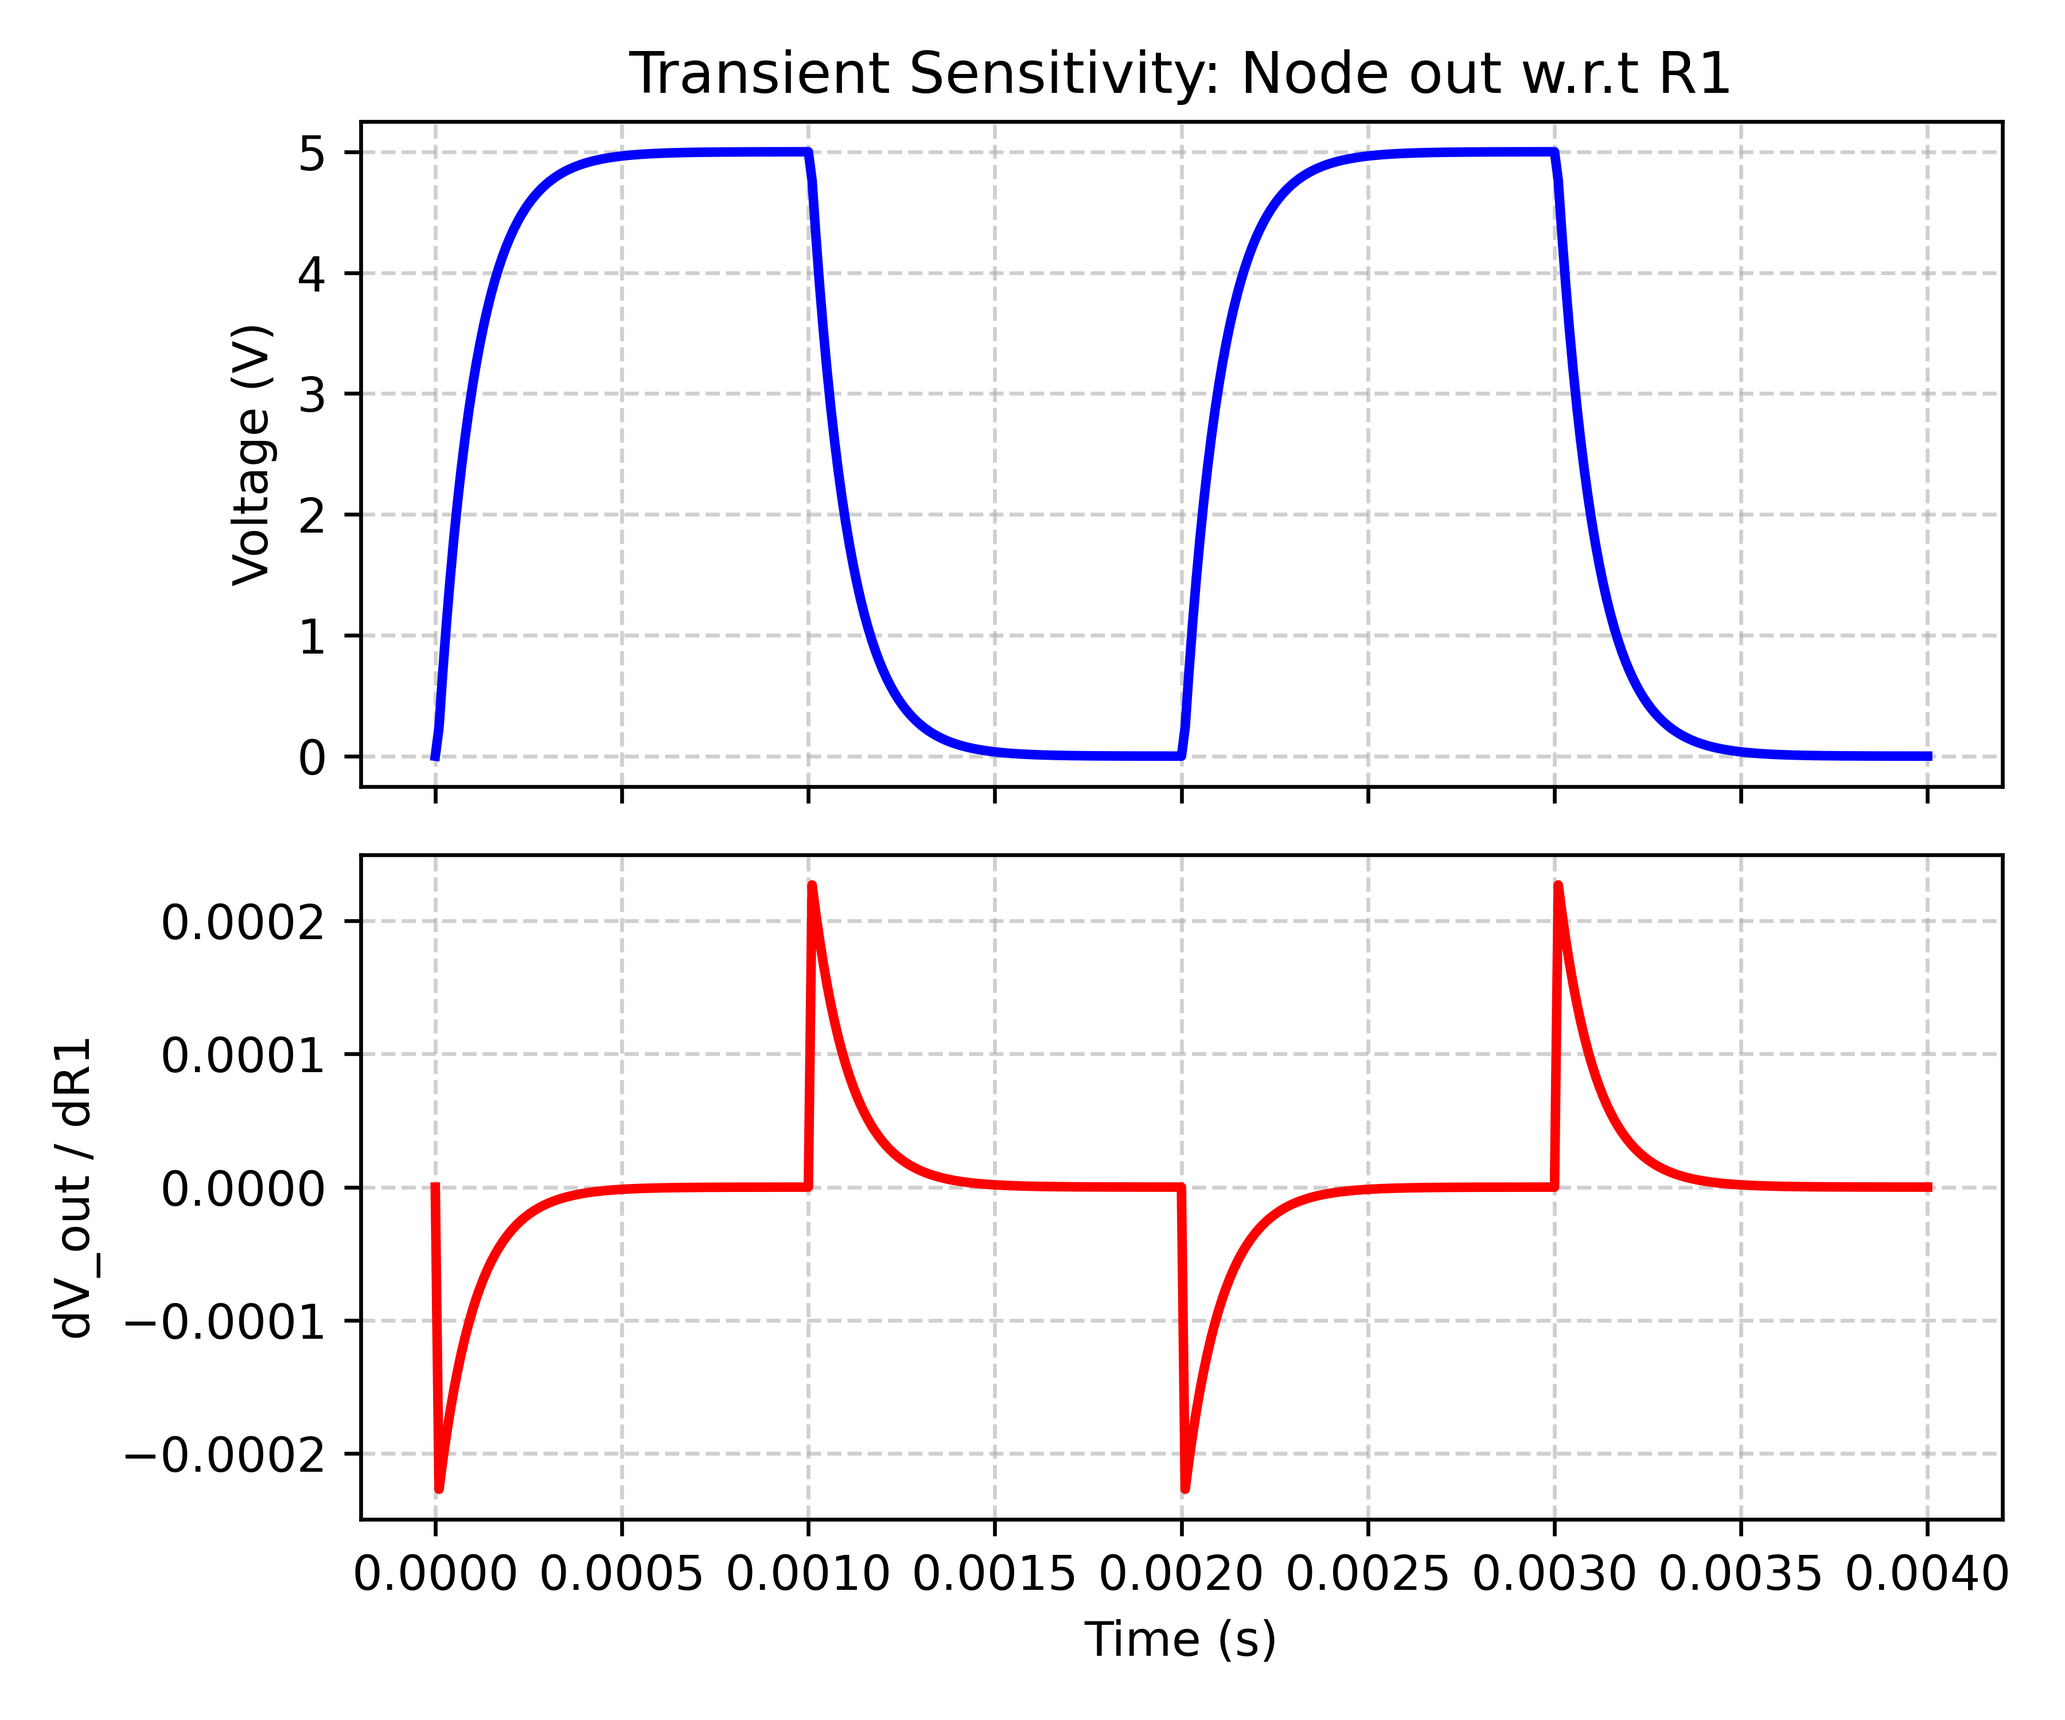
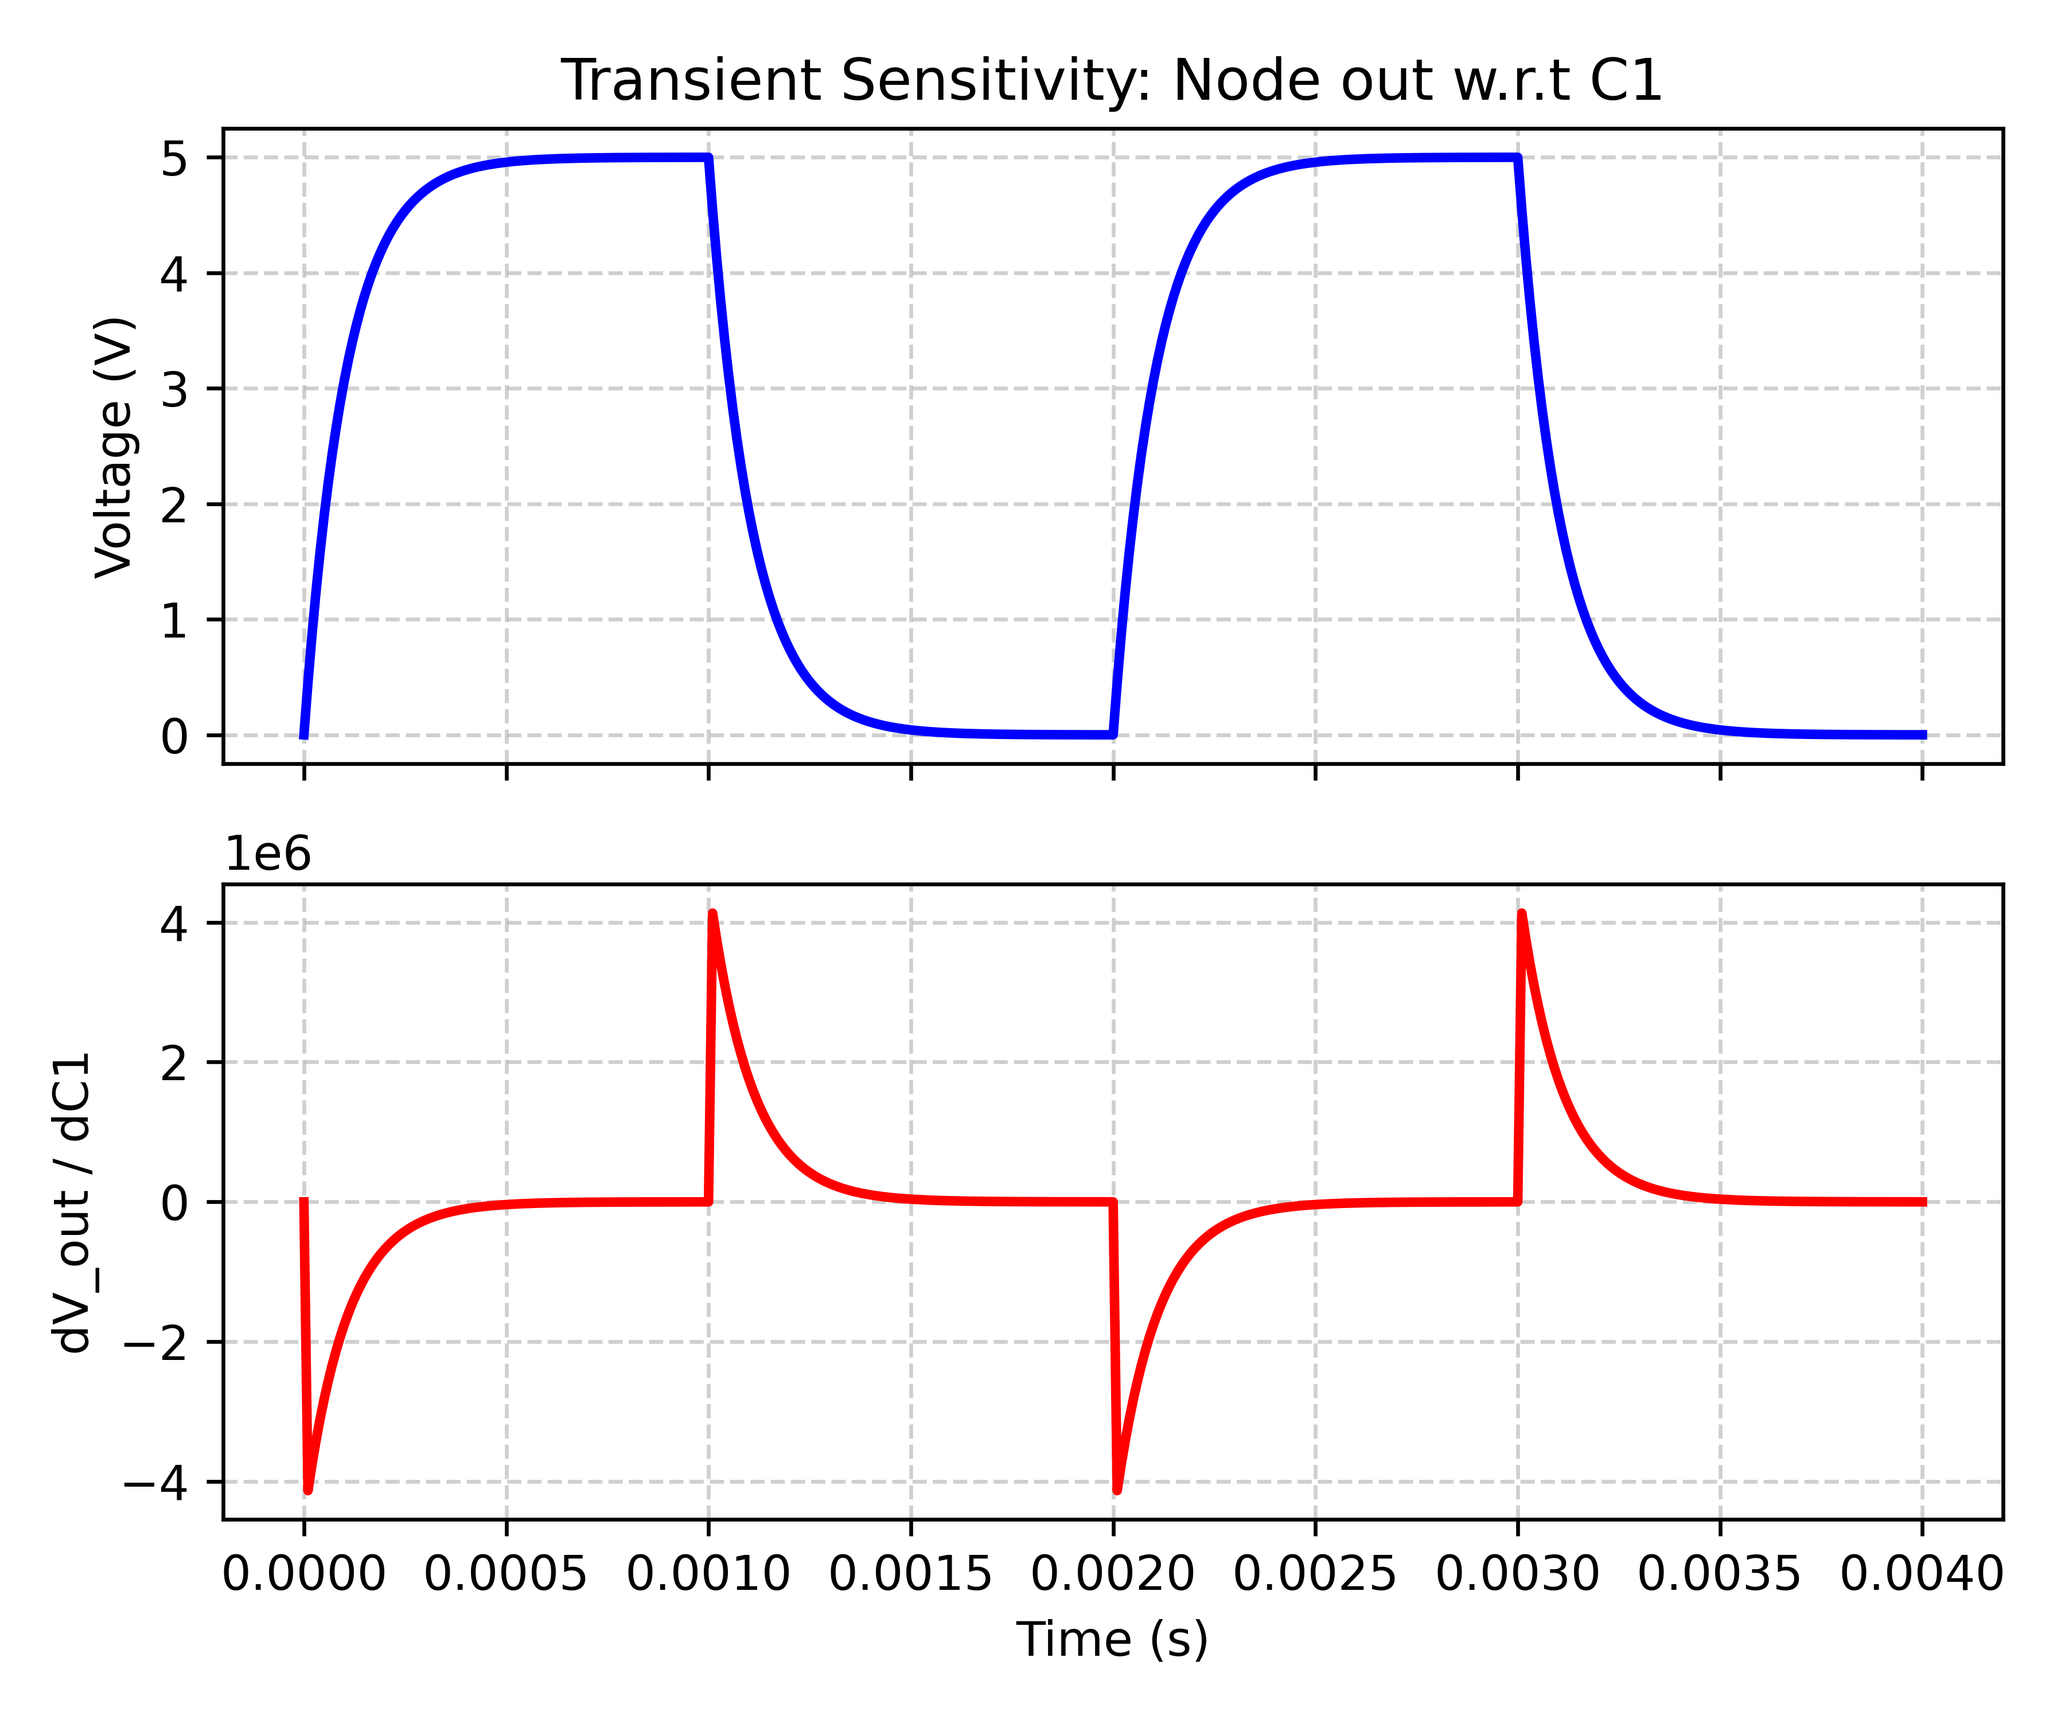
added fault analysis with ranking, stored raw adjoint vectors. Threshold limits for faults will be added later

Changed region(s): [[0.0311, 0.031, 0.9644, 0.465], [0.0311, 0.496, 0.9956, 0.961], [0.9022, 0.744, 0.9333, 0.806]]

diff --git a/src_oop/applications/fault_analysis.py b/src_oop/applications/fault_analysis.py
@@ -1,29 +1,47 @@
+"""
+Provides functions for ranking component sensitivities 
+and generating fault tables (opens and shorts) using adjoint sensitivity 
+data from the simulator.
+
+Short faults: R_short = dVout/ (v_nom * psi_nom)
+    where v_nom is the voltage difference between shorting nodes in the 
+    original circuit, and psi_nom is the voltage difference in the adjoint circuit.
+
+Open faults: R_open = dVout / (i_nom * phi_nom)
+    where i_nom is the branch current in the original circuit, and phi_nom 
+    is the branch current in the adjoint circuit.
+"""
+
 import numpy as np
 
 def rank_component_sensitivities(result):
     """
     Rank order component sensitivities from largest to smallest.
-    Uses the data already stored in the SensitivityCube.
+    Uses the data stored in the SensitivityData tensor.
+    
+    Args:
+        result (SimulationResult): The simulation result object with 
+            sensitivities already computed.
+    
+    Returns:
+        list[dict]: Sorted list of sensitivity rankings, or None if 
+            no sensitivity data is available.
     """
-    cube = result.sensitivities.get("Sensitivity_Cube")
-    if not cube:
-        print("No Sensitivity Cube found. Run simulation with sensitivity=True.")
-        return
+    tensor = result.sensitivities
+    if tensor is None:
+        print("No sensitivity data found. Run simulation with sensitivity=True.")
+        return None
 
     rank_list = []
 
-    #Iterate through every parameter stored in the cube
-    for p_name in cube.param_names:
-        #Get the time-series waveform for this parameter
-        for o_node in cube.output_nodes:
-            s_waveform = cube.get_time_series(p_name, o_node)
+    for p_name in tensor.param_names:
+        for o_node in tensor.output_nodes:
+            s_waveform = tensor.get_sweep_series(p_name, o_node)
             
-            #Use the maximum absolute value as the 'Ranking Metric'
-            #This identifies the "Peak Impact" this component has on the output
-            # Find the peak and the time it happened
+            # Use the maximum absolute value as the ranking metric
             peak_idx = np.argmax(np.abs(s_waveform))
-            impact = s_waveform[peak_idx] # Keep the sign (+/-)
-            peak_time = cube.time_array[peak_idx]
+            impact = s_waveform[peak_idx]
+            peak_time = tensor.sweep_axis[peak_idx]
             
             rank_list.append({
                 "name": p_name,
@@ -32,9 +50,9 @@ def rank_component_sensitivities(result):
                 "time": peak_time
             })
 
-    #Sort the list: Largest to Smallest
     ranked = sorted(rank_list, key=lambda x: abs(x['impact']), reverse=True)
 
+    # Print the table
     print(f"\n{'Rank':<5} | {'Parameter':<12} | {'Impact':<12} | {'At Time':<10} | {'Target'}")
     print("-" * 65)
     for i, item in enumerate(ranked[:10]):
@@ -44,59 +62,113 @@ def rank_component_sensitivities(result):
 
 
 def perform_global_ranking(circuit, result):
-    cube = result.sensitivities["Sensitivity_Cube"]
-    vi_nom = result.VI
-    psi_nom = cube.adjoint_vectors 
+    """
+    Generate a fault table ranking both open and short faults for 
+    each output node using adjoint sensitivity data.
     
-    # Filter: identify branch current entries by checking component types
+    For opens: uses the existing component sensitivity waveforms.
+    For shorts: computes v_diff * psi_diff for all node pairs using 
+        the raw adjoint vectors stored in the SensitivityData tensor.
+    
+    Args:
+        circuit (Circuit): The circuit object with components and node_map.
+        result (SimulationResult): The simulation result with sensitivities.
+    
+    Returns:
+        dict: { 'node_name': [ranked_faults_list] } for each output node.
+    """
+    tensor = result.sensitivities
+    if tensor is None:
+        print("No sensitivity data found. Run simulation with sensitivity=True.")
+        return None
+
+    vi_nom = result.VI
+    psi_nom = tensor.adjoint_vectors  # Shape: (n_outputs, n_steps, total_dim)
+    
+    # Check that adjoint vectors were stored
+    if psi_nom is None:
+        print("No raw adjoint vectors found. Cannot compute short faults.")
+        use_adjoint = False
+    else:
+        use_adjoint = True
+    
+    # Filter out branch current entries to keep only physical voltage nodes
     branch_names = set()
     for comp in circuit.components:
         if comp.type in ["V", "L", "H", "E"]:
             branch_names.add(comp.name)
     
-    # Keep only physical voltage nodes
-    voltage_nodes = [(name, idx) for name, idx in result.node_map.items()
+    voltage_nodes = [(name, idx) for name, idx in circuit.node_map.items()
                      if name not in branch_names]
-    
-    # We will return a dictionary: { 'node_name': [ranked_faults_list] }
+
     all_rankings = {}
 
-    # Iterate through every output node you specified in main.py
-    for out_idx, out_node_name in enumerate(cube.output_nodes):
+    for out_node in tensor.output_nodes:
+        o_idx = tensor.output_index[out_node]
         node_faults = []
 
-        # --- 1. Rank Existing Components (Opens) for THIS node ---
-        for p_name in cube.param_names:
-            s_waveform = cube.get_time_series(p_name, out_node_name)
+        # --- 1. Rank Existing Components/Branches (Open Faults) ---
+        # An open fault means a component's resistance goes very high.
+        # The sensitivity waveform tells us how much the output changes
+        # per unit change in that component's parameter.
+        for p_name in tensor.param_names:
+            s_waveform = tensor.get_sweep_series(p_name, out_node)
             peak_idx = np.argmax(np.abs(s_waveform))
             node_faults.append({
                 "type": "Open", 
                 "location": p_name, 
                 "impact": s_waveform[peak_idx], 
-                "time": cube.time_array[peak_idx]
+                "time": tensor.sweep_axis[peak_idx]
             })
 
-        # --- 2. Rank Node-Pair Shorts for THIS node ---
+        # --- 2. Rank Node-Pair Shorts ---
+        # v_diff = voltage difference between the two nodes in the original circuit
+        # psi_diff = voltage difference between the two nodes in the adjoint circuit
         for i in range(len(voltage_nodes)):
             for j in range(i + 1, len(voltage_nodes)):
                 n1, idx1 = voltage_nodes[i]
                 n2, idx2 = voltage_nodes[j]
                 
+                # Forward voltage difference across the potential short
                 v_diff = vi_nom[:, idx1] - vi_nom[:, idx2]
-                psi_diff = psi_nom[out_idx, :, idx1] - psi_nom[out_idx, :, idx2] 
                 
-                short_sens_waveform = v_diff * psi_diff
+                if use_adjoint:
+                    # Adjoint voltage difference (psi) for this output node
+                    psi_diff = psi_nom[o_idx, :, idx1] - psi_nom[o_idx, :, idx2]
+                    
+                    short_sens_waveform = v_diff * psi_diff
                 
                 peak_idx = np.argmax(np.abs(short_sens_waveform))
                 node_faults.append({
                     "type": "Short", 
                     "location": f"{n1}<->{n2}", 
                     "impact": short_sens_waveform[peak_idx],
-                    "time": cube.time_array[peak_idx]
+                    "time": tensor.sweep_axis[peak_idx]
                 })
 
-        # --- 3. Final Sort for THIS node ---
+        # --- 3. Sort by absolute impact ---
         node_faults.sort(key=lambda x: abs(x["impact"]), reverse=True)
-        all_rankings[out_node_name] = node_faults
+        all_rankings[out_node] = node_faults
 
     return all_rankings
+
+
+def print_fault_table(all_fault_tables, top_n=15):
+    """
+    Pretty-print the fault ranking tables.
+    
+    Args:
+        all_fault_tables (dict): Output from perform_global_ranking().
+        top_n (int): Number of top faults to display per node.
+    """
+    if all_fault_tables is None:
+        return
+        
+    for node_name, ranked_list in all_fault_tables.items():
+        print("\n" + "=" * 70)
+        print(f"  FAULT TABLE FOR OUTPUT: V({node_name})")
+        print("=" * 70)
+        print(f"{'Rank':<5} | {'Type':<10} | {'Location':<15} | {'Peak Impact':<14} | {'At Time'}")
+        print("-" * 70)
+        for i, fault in enumerate(ranked_list[:top_n]):
+            print(f"{i+1:<5} | {fault['type']:<10} | {fault['location']:<15} | {fault['impact']:>12.3e} | {fault['time']:>8.2e}s")

diff --git a/src_oop/main.py b/src_oop/main.py
@@ -11,6 +11,7 @@ from core.circuit import Circuit
 from engines.simulator import Simulator
 from utils.plotting import plot_transient, plot_transient_sensitivity, plot_dc_sweep, plot_dc_sensitivity, plot_ac_sensitivity, print_solution, make_bode_plot
 import numpy as np
+from applications.fault_analysis import rank_component_sensitivities, perform_global_ranking, print_fault_table
 
 def run_simulation_core(netlist_path, output_nodes=None, sensitivity=False, global_adjoint=False, keep_lus=False):
     """Runs the complete SPICE simulation pipeline.
@@ -53,12 +54,12 @@ if __name__ == "__main__":
     netlist = "rc_transient" # nmos_inverter, rc_lowpass, etc.
     file_path = f"../testfiles/{netlist}.txt"
     target_node = "out" 
-    target_component = "R1" 
+    target_component = "C1" 
 
     # --- Execution ---
     circuit, result = run_simulation_core(
         file_path, 
-        output_nodes=[target_node], 
+        output_nodes=[target_node,"in"], 
         sensitivity=True,
         global_adjoint=False  # Ensure we calculate the global backward integrals for TRAN
     )
@@ -100,6 +101,11 @@ if __name__ == "__main__":
                     name=f"{netlist}_tran_sens"
                 )
         
+            #fault table
+            rank_component_sensitivities(result)
+            all_fault_tables = perform_global_ranking(circuit, result)
+            print_fault_table(all_fault_tables)
+
         # Quick tensor test: Print matrices at first and last time steps
         if result.sensitivities:
             result.sensitivities.print_matrix_at_step(0)
@@ -163,4 +169,4 @@ if __name__ == "__main__":
             print(f"\n=== DC SENSITIVITIES FOR V({target_node}) ===")
             for param in calculated_params:
                 sens_val = result.get_sensitivity(target_node, param)
-                print(f"  d({target_node})/d({param}) = {sens_val:+.6e}")
+                print(f"d({target_node})/d({param}) = {sens_val:+.6e}")

diff --git a/src_oop/engines/adjoint_engine.py b/src_oop/engines/adjoint_engine.py
@@ -136,6 +136,13 @@ class AdjointEngine:
         # 2. Allocate the 3D Tensor
         tensor = SensitivityData(sweep_axis, param_names, self.output_nodes, domain=domain)
 
+        # 3. Allocate storage for raw adjoint vectors (needed for fault analysis)
+        # Shape: (n_outputs, n_sweep_steps, total_dim)
+        dtype = complex if is_ac else float
+        tensor.adjoint_vectors = np.zeros(
+            (len(self.output_nodes), num_steps, self.circuit.total_dim), dtype=dtype
+        )
+
         for target_node in self.output_nodes:
             print(f"--- Building Sensitivity Tensor for {domain.upper()} Node '{target_node}' ---")
             o_idx = tensor.output_index[target_node]
@@ -148,7 +155,9 @@ class AdjointEngine:
 
                 # Transposed Solve
                 psi = self._solve_adjoint(list_of_lus[i], target_node, is_complex=is_ac)
-
+                
+                # Store the raw adjoint vector for fault analysis
+                tensor.adjoint_vectors[o_idx, i, :] = psi
                 # Calculate Gradients
                 for comp in self.circuit.components:
                     step_sens = comp.get_sensitivities(

diff --git a/src_oop/core/results.py b/src_oop/core/results.py
@@ -25,6 +25,10 @@ class SensitivityData:
             names to their row index in the tensor.
         output_index (dict[str, int]): Fast-lookup dictionary mapping output 
             node names to their column index in the tensor.
+        adjoint_vectors (np.ndarray or None): Optional raw adjoint solution vectors 
+            of shape (n_outputs, n_sweep_steps, total_dim). Stored when needed 
+            for fault analysis (shorts require raw ψ at every node, not just 
+            the sensitivity products).
     """
 
     def __init__(self, sweep_axis, param_names, output_nodes, domain="static"):
@@ -46,6 +50,8 @@ class SensitivityData:
 
         self.param_index = {name: idx for idx, name in enumerate(param_names)}
         self.output_index = {name: idx for idx, name in enumerate(output_nodes)}
+        # Raw adjoint vectors (populated optionally for fault analysis)
+        self.adjoint_vectors = None
 
     def get_sweep_series(self, param, output_node):
         """Retrieves the sensitivity array across the entire sweep axis.
